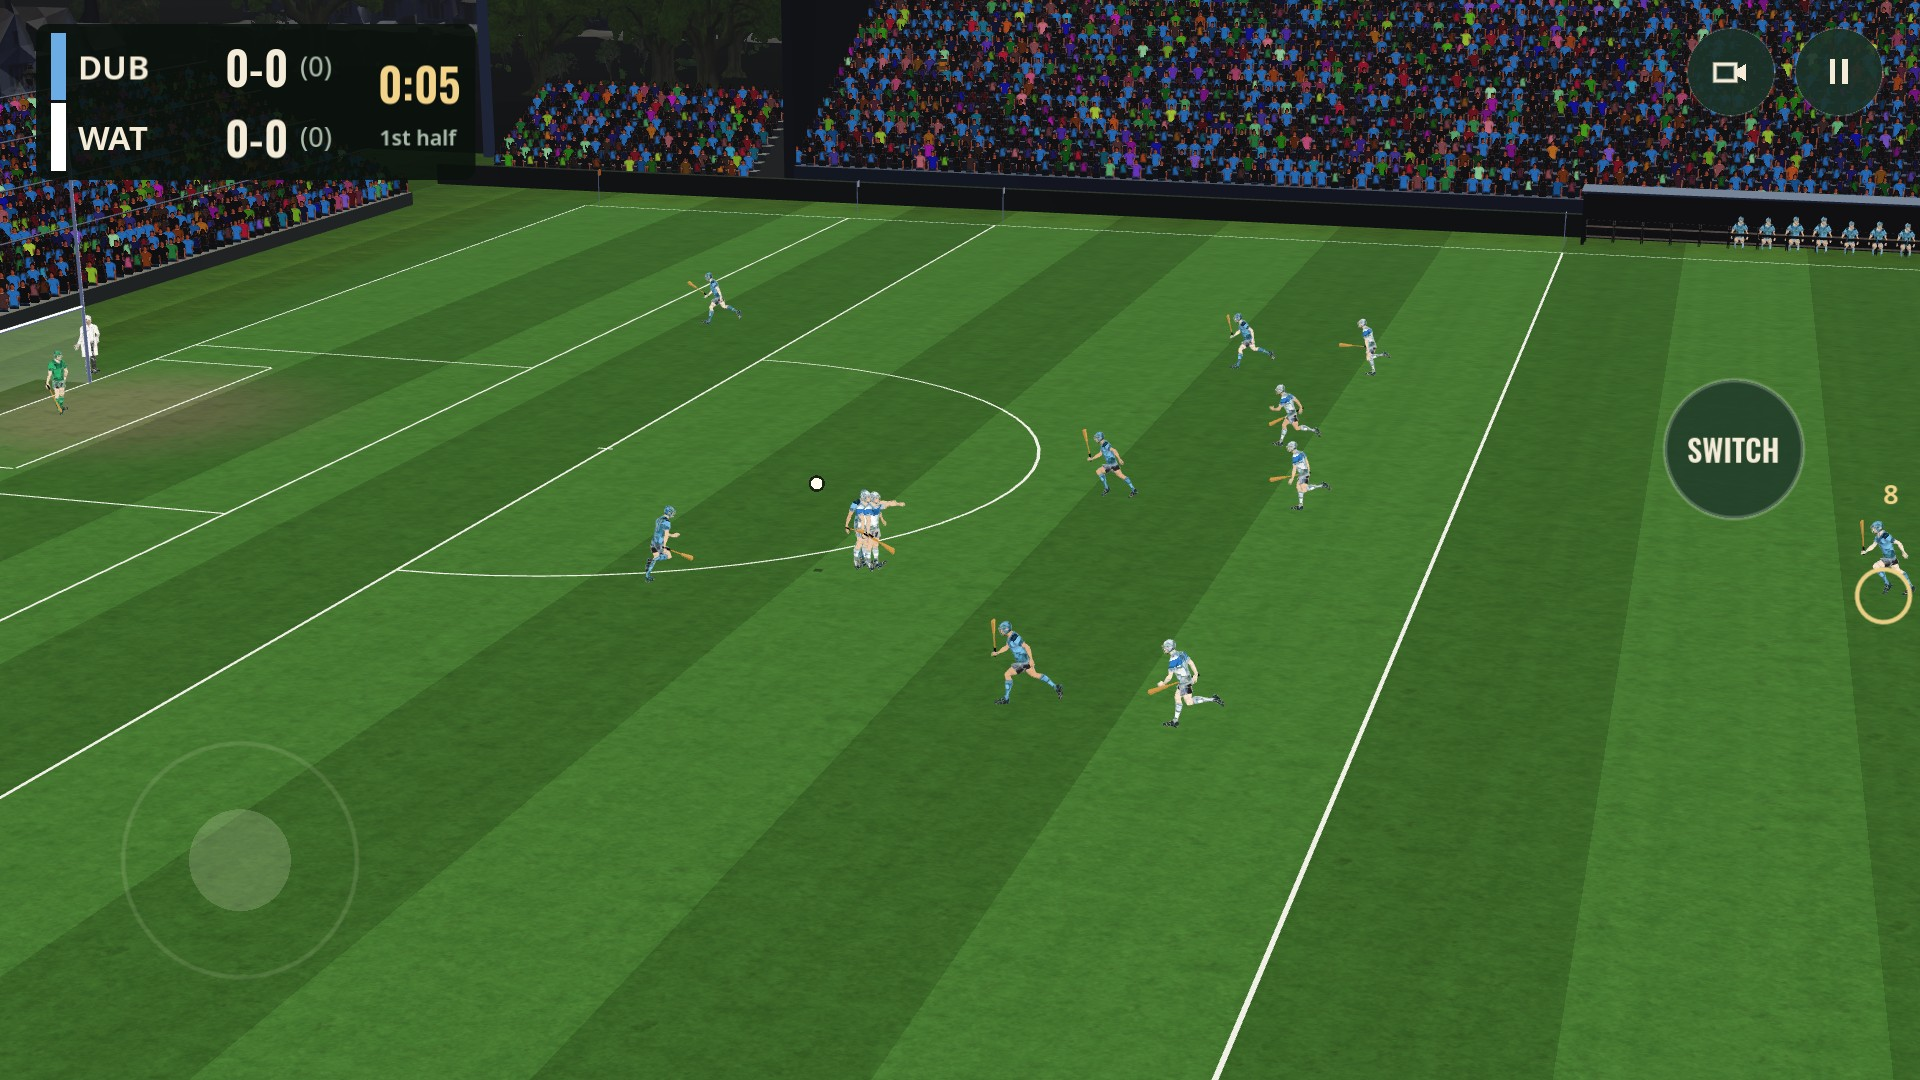
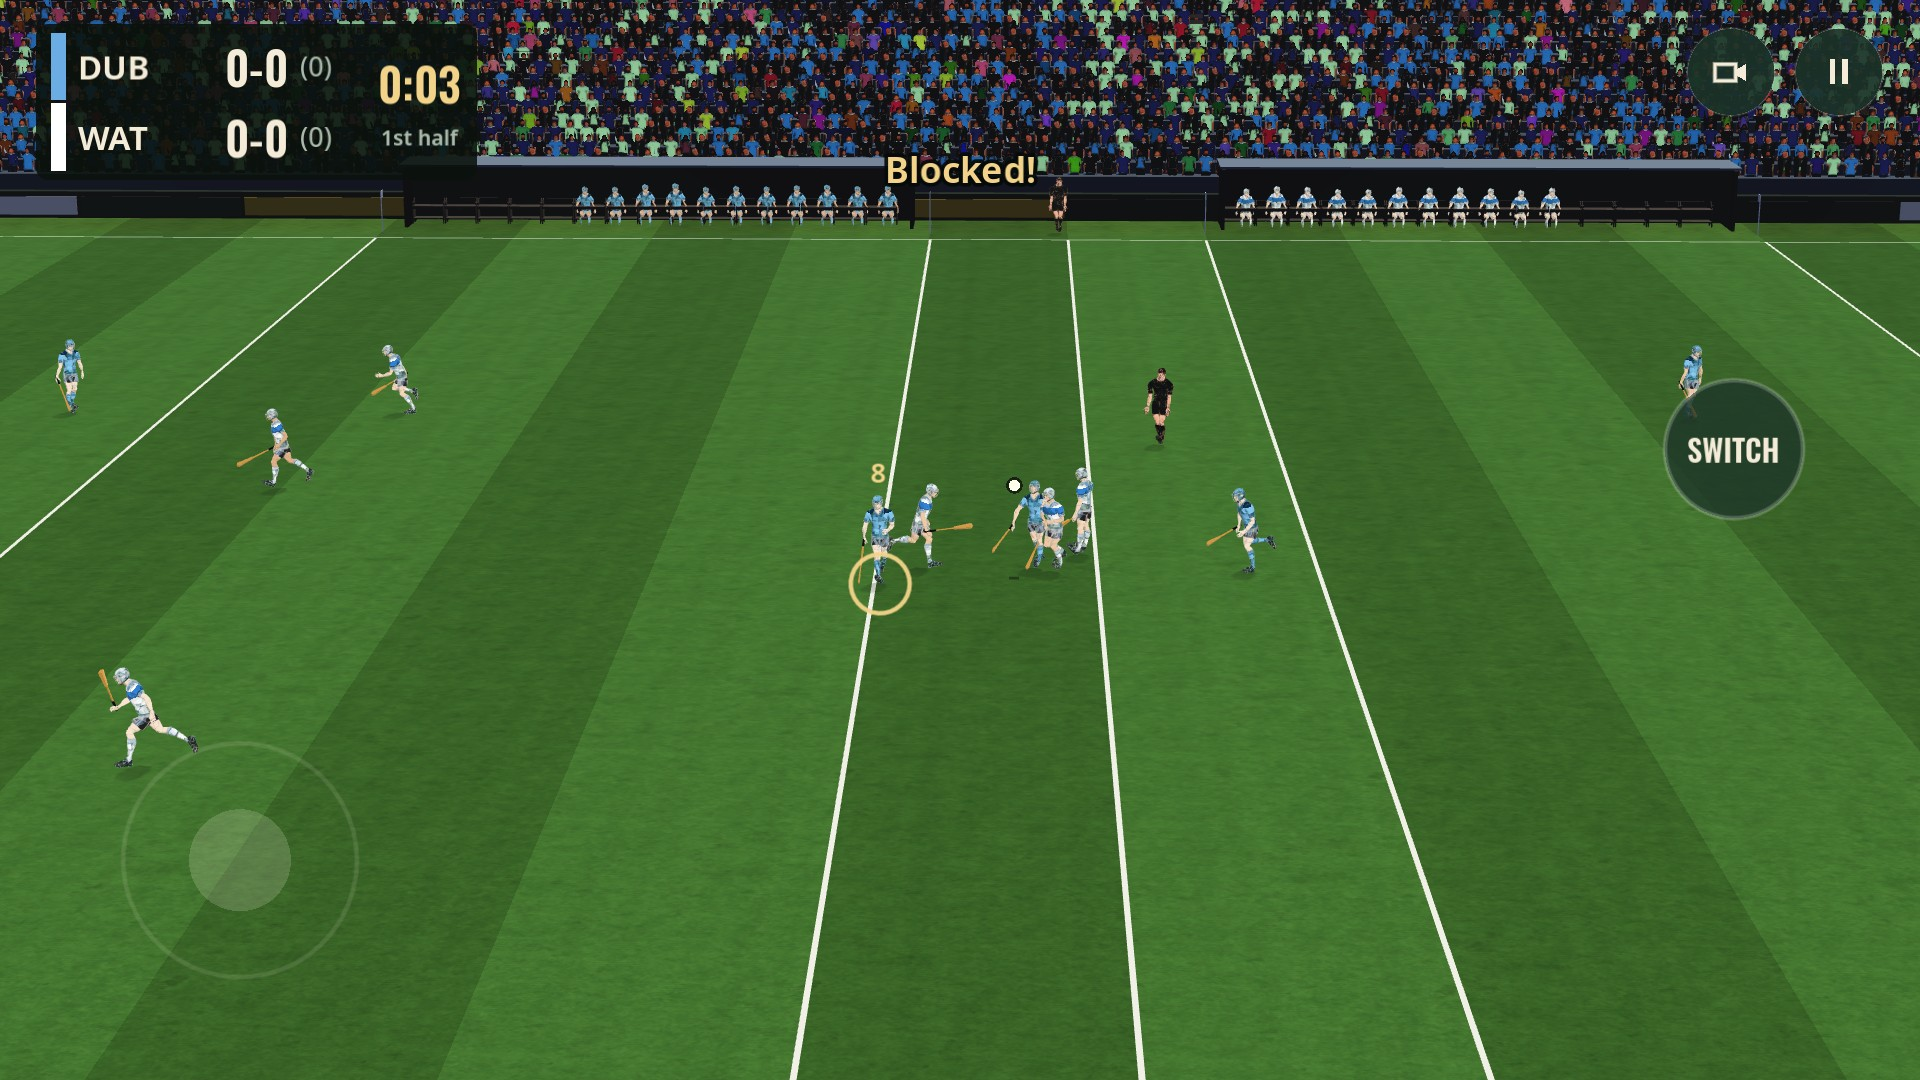
0.9.0-beta: player shadows, a Croke Park-like stadium, county-coloured crowds, an AI that swarms
- PlayerShadows (Medium and High): each man's shadow on the unlit grass, from his feet away from the sun, its
  length from the sun's elevation; one draw call. None on Low.
- The national stadium on Medium and High: a band of glass-fronted boxes between the decks, a lit magenta ribbon on
  the upper deck, the roof's white truss, lit panel boards round the field, a terracotta strip; the county ground's
  boards painted panels. All in the ground's merged mesh (no new draw calls).
- Crowds at the stadium and county ground in the two counties' colours, by section.
- From a broadcast of Galway v Limerick at Croke Park (2026; docs/VIDEO_NOTES.md, nothing of it in the game): lines
  squeeze toward the ball, a second presser within 65 m of goal, three chasers a side for a loose ball. score_check
  passes at every length.
- The strike's sound fitted to measured real strikes (a 3 ms crack, energy under 500 Hz and at 4-8 kHz).
- Tests: shadows (one a man, away from the sun; none on Low). Docs, store notes and screenshots; versionCode 12.

Claude-Session: https://claude.ai/code/session_014hG8tsaKWnsFdAR9yvDKpG

diff --git a/hurling-game/docs/VIDEO_NOTES.md b/hurling-game/docs/VIDEO_NOTES.md
@@ -1,0 +1,46 @@
+# Notes from a real match
+
+The owner shared 40 minutes of a broadcast (RTÉ2) of Galway v Limerick at Croke Park, summer 2026, the first half
+and half-time. It was studied for how the game is played, how the ground looks and feels, and how a strike sounds;
+none of the broadcast (its pictures or its sound) is in the game: it is RTÉ's. Frames were taken every 20 s and in
+2 s runs through passages of open play; the sound was searched for the sharp transients of strikes.
+
+## The game
+
+- **Scoring**: 0-8 v 0-13 at half-time, 21 points and no goals in about 37 minutes: points from everywhere, goals
+  rare. The game's AI already plays to about 3 goals and 43 points over 70 minutes (tests/score_check.tscn).
+- **Compact**: in the wide shots most of the 30 are in a band about 40 m across round the ball; the far wing is often
+  empty. The game's lines now squeeze further across toward the ball (TeamAI.home_spot).
+- **Swarming**: the man in possession is closed by two or three at once, well out from goal, and a ball on the
+  ground becomes a ruck of four to six, hurleys low, bodies over it. The game now sends a second man in on the carrier
+  within 65 m of goal (was 45) and three from each side for a loose ball (was two).
+- **Puck-outs are contested**: the broadcast's own count at 15 minutes: Galway had won 2 of their 6, Limerick 5 of 6;
+  short puck-outs are the safe ones. Turnovers at half-time: 18 and 16. (The game's keepers choose short or long by
+  their side's tactics and the space in front: docs/AI.md.)
+- **Restarts**: many sideline cuts: the ball placed on the line, the taker bent low over it, the hurley flat on the
+  grass, the linesman beside him with his flag; frees struck from the hand after a lift.
+- **Breaks**: many: injuries, frees, the referee speaking to a player; the ball is live about two-fifths of the time
+  (the game's match clock is set to that: docs/AI.md).
+
+## The ground
+
+- **Stands**: two decks on the long sides with a level of glass-fronted boxes between them, a cantilevered roof with a
+  white truss on its front edge, a terrace at one end (the Hill), the crowd filling everything.
+- **The crowd**: in its counties' colours, maroon and white and green, in blocks: whole sections of one or the other,
+  a few of the other side among them. The game's stadium and county ground now fill most seats with the two
+  counties' colours, section by section (Crowd.build).
+- **The edges**: lit advertising boards round the field and on the upper deck's front, magenta and purple; a
+  terracotta strip between the grass and the boards.
+- **The light**: a hot afternoon; the stands throw a shadow over part of the field, and every player has a long,
+  hard shadow. The grass is mown in broad stripes with a diagonal cross-cut, the competition's name painted at
+  midfield (not copied: it is the organisers' mark).
+
+All of the ground's details went into the national stadium on Medium and High (Stadium._stadium, _boards,
+_perimeter, _truss), and the shadows into every match on Medium and High (PlayerShadows).
+
+## The sound
+
+The commentary is over everything, but in close shots of sideline cuts and a free the strike stands out: a crack
+gone in 1 to 3 ms (12 dB down), its energy under 500 Hz (a thump) and at 4 to 8 kHz (the crack), little between.
+The game's strike was a tone ringing at 1.2 and 2.4 kHz for 25 ms; it is now made to that measure (Sfx._strike: -12
+dB in 3 ms, the same split of energy). The recording itself is not used.

diff --git a/hurling-game/docs/PROGRESS.md b/hurling-game/docs/PROGRESS.md
@@ -232,6 +232,34 @@ file's source, author and licence; `tools/audio/sounds.py` downloads, trims, lev
 - Size: 300 KB of audio before, 596 KB after; the APK 39.65 MB before (0.6.0), see the release for after.
 - Test: every file in assets/audio loads, every sound the game plays is there, the beds loop.
 
+## Done (0.9.0-beta, shadows, the stadium, a real match watched, 26 October 2026)
+
+The owner asked for player shadows and modelled stands, and for a 40-minute broadcast of Galway v Limerick at Croke
+Park (2026) to be studied for movement, strategy and the ground's look and feel (docs/VIDEO_NOTES.md; nothing from
+the broadcast is in the game).
+
+- **Shadows** (PlayerShadows, Medium and High): the grass is drawn unlit, so the sun's shadow maps never fell on it.
+  Each man now has a soft shadow from his feet away from the sun, its length the sun's (a man's height over the
+  tangent of its elevation), shorter in the air, faint at night; one MultiMesh, one draw call. Test: one each, all
+  away from the sun; none on Low.
+- **The stadium** (Medium and High): the far stand's upper deck raised 3 m over a band of glass-fronted boxes with
+  white mullions, a lit magenta ribbon on its front, the roof's white truss (a deep front beam, ribs arching back every
+  10 m), the floodlights up with it, lit panel boards round the field, a terracotta strip between grass and boards;
+  the county ground's boards painted panels. All in the ground's one merged mesh: no new draw calls; about 18,000 more
+  triangles on High. Low as it was. A model of a stand (asked for) is not needed: the stands are built to seat the
+  crowd row by row, and these details carry the look.
+- **The crowd**: at the stadium and the county ground three in four wear one county's colours or the other's, by
+  section (12 m of stand leaning one way), as at Croke Park; the parish field as before.
+- **The AI** (from the broadcast): lines squeeze across toward the ball (the game is played in a band about 40 m wide),
+  a second man presses the carrier within 65 m of goal (was 45), three from each side go for a loose ball (was two:
+  a ruck). score_check passes at every length (35 min: 2.3 goals, 42 points a match; 1.67 points a live minute,
+  real 1.58).
+- **The strike** (Sfx._strike): fitted to strikes measured in the broadcast: 12 dB down in 3 ms (was 25 ms of ringing
+  at 1.2 and 2.4 kHz), its energy under 500 Hz and at 4-8 kHz. The recording itself is RTÉ's and is not used.
+- Perf (perf_probe, stadium Low / Medium / High): 91 / 92 / 132 draw calls, 101,000 / 191,000 / 343,000 triangles;
+  video memory unchanged (40.1 / 75.5 / 87.0 MB). Low's counts move with where the more compact sides stand at the
+  measured moment, not with anything drawn.
+
 ## Done (0.8.2-beta, one beta key, 24 October 2026)
 
 Every game's betas are now signed with the owner's beta key (the BETA_KEYSTORE_B64 repository secret, a PKCS12

diff --git a/hurling-game/README.md b/hurling-game/README.md
@@ -4,7 +4,7 @@ Hurling for Android phones, built with [Godot 4.7](https://godotengine.org) (fre
 the same way as Kabaddi Raid and Takraw Smash. It plays the GAA's playing rules as they stand in 2026, fifteen a side,
 for the people who play and follow hurling: Ireland, and the Irish abroad. In English and in Irish.
 
-> **Status: playable beta (0.8.2).** The hurlers are the owner's own model, animated with four Mixamo clips and a
+> **Status: playable beta (0.9.0).** The hurlers are the owner's own model, animated with four Mixamo clips and a
 > CMU motion-capture walk and jog (`tools/mocap/`), baked for phones (`tools/player/`); the officials and the
 > crowd's fans are Meshy models baked the same way (`game/person_body.gd`, `tools/crowd/`). Everything else is the
 > game as it will ship.
@@ -90,7 +90,7 @@ autoload/   game.gd (settings, saves, theme, screens), db.gd (counties, players,
 game/       rules.gd (the playing rules, pure), match.gd (the match: play, restarts, fouls, cards, time, your player),
             team_ai.gd (shape, marking, decisions), officials.gd, player.gd (movement and poses), hero_body.gd (the
             owner's model, its clips and its kit shader), body.gd (the skeleton and its poses),
-            person_body.gd (the officials' models), replay.gd (a score or wide again from behind the goal),
+            person_body.gd (the officials' models), player_shadows.gd, replay.gd (a score or wide again from behind the goal),
             bench.gd (the substitutes in the dugouts), scenery.gd (the shared models round a ground), sliotar.gd,
             pitch.gd, stadium.gd + geo.gd + crowd.gd (the grounds),
             camera_rig.gd, hud.gd, touch_controls.gd, championship.gd, sim.gd, records.gd, plural.gd, coach.gd,

diff --git a/hurling-game/docs/BETA.md b/hurling-game/docs/BETA.md
@@ -9,6 +9,19 @@
 
 Each new beta installs over the last and keeps your saves.
 
+## New in 0.9.0
+
+- **Shadows**: every player has a shadow on the grass (Medium and High), long and hard on a summer afternoon, so you
+  can see where everyone is.
+- **The national stadium looks like Croke Park** on Medium and High: a level of glass-fronted boxes between the two
+  decks, a lit magenta ribbon on the upper deck, the roof's white truss, lit advertising boards round the field and a
+  terracotta border. The crowd at the stadium and the county ground is in the two counties' colours, section by
+  section.
+- **Played like the real thing**: from watching a 2026 championship match, sides now squeeze across toward the ball,
+  close the man in possession in twos further out, and a ball on the ground becomes a ruck. Scoring still matches real
+  hurling.
+- **The strike** sounds sharper: a crack, made to the measure of real strikes.
+
 ## New in 0.8.2
 
 - **One signing key from now on.** Until now each beta was signed with a key of its own, so Android refused to
